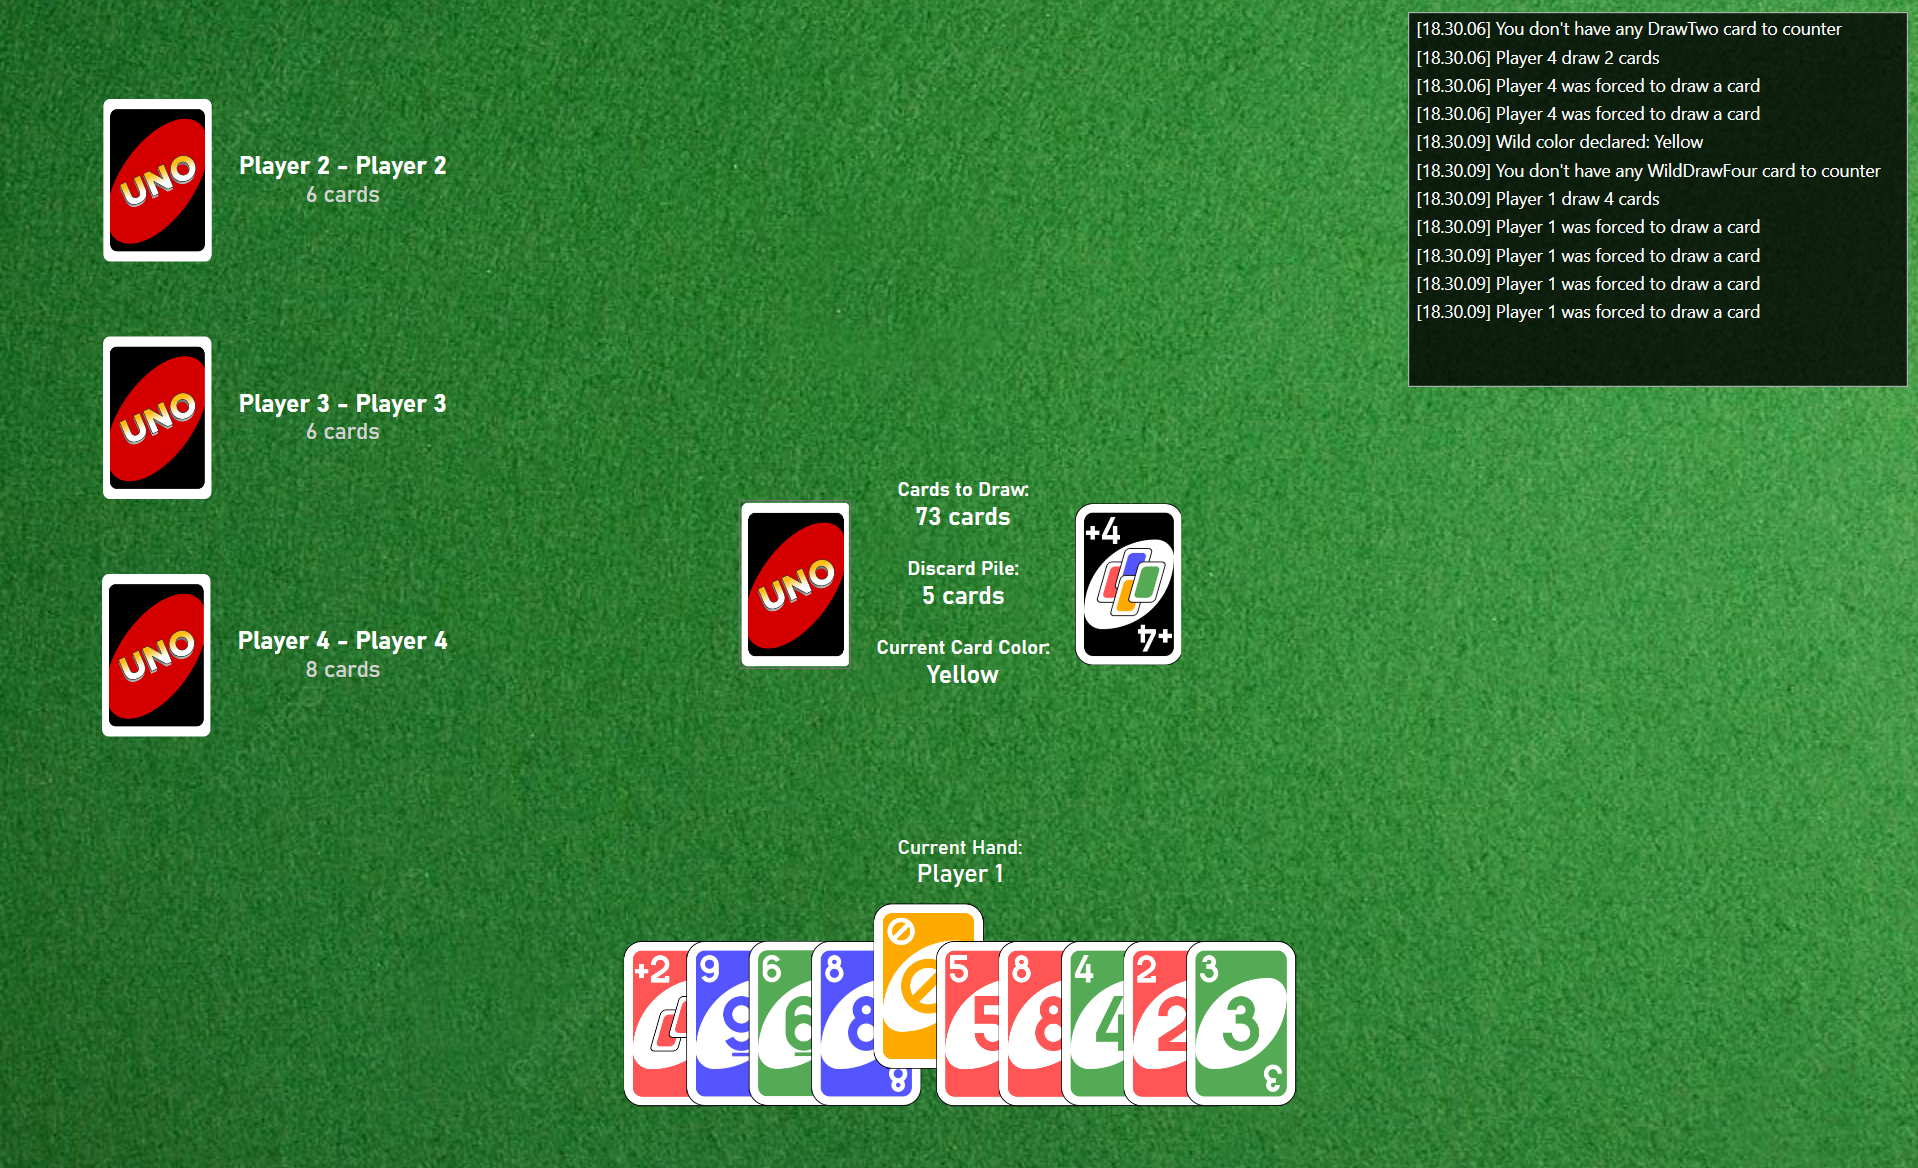
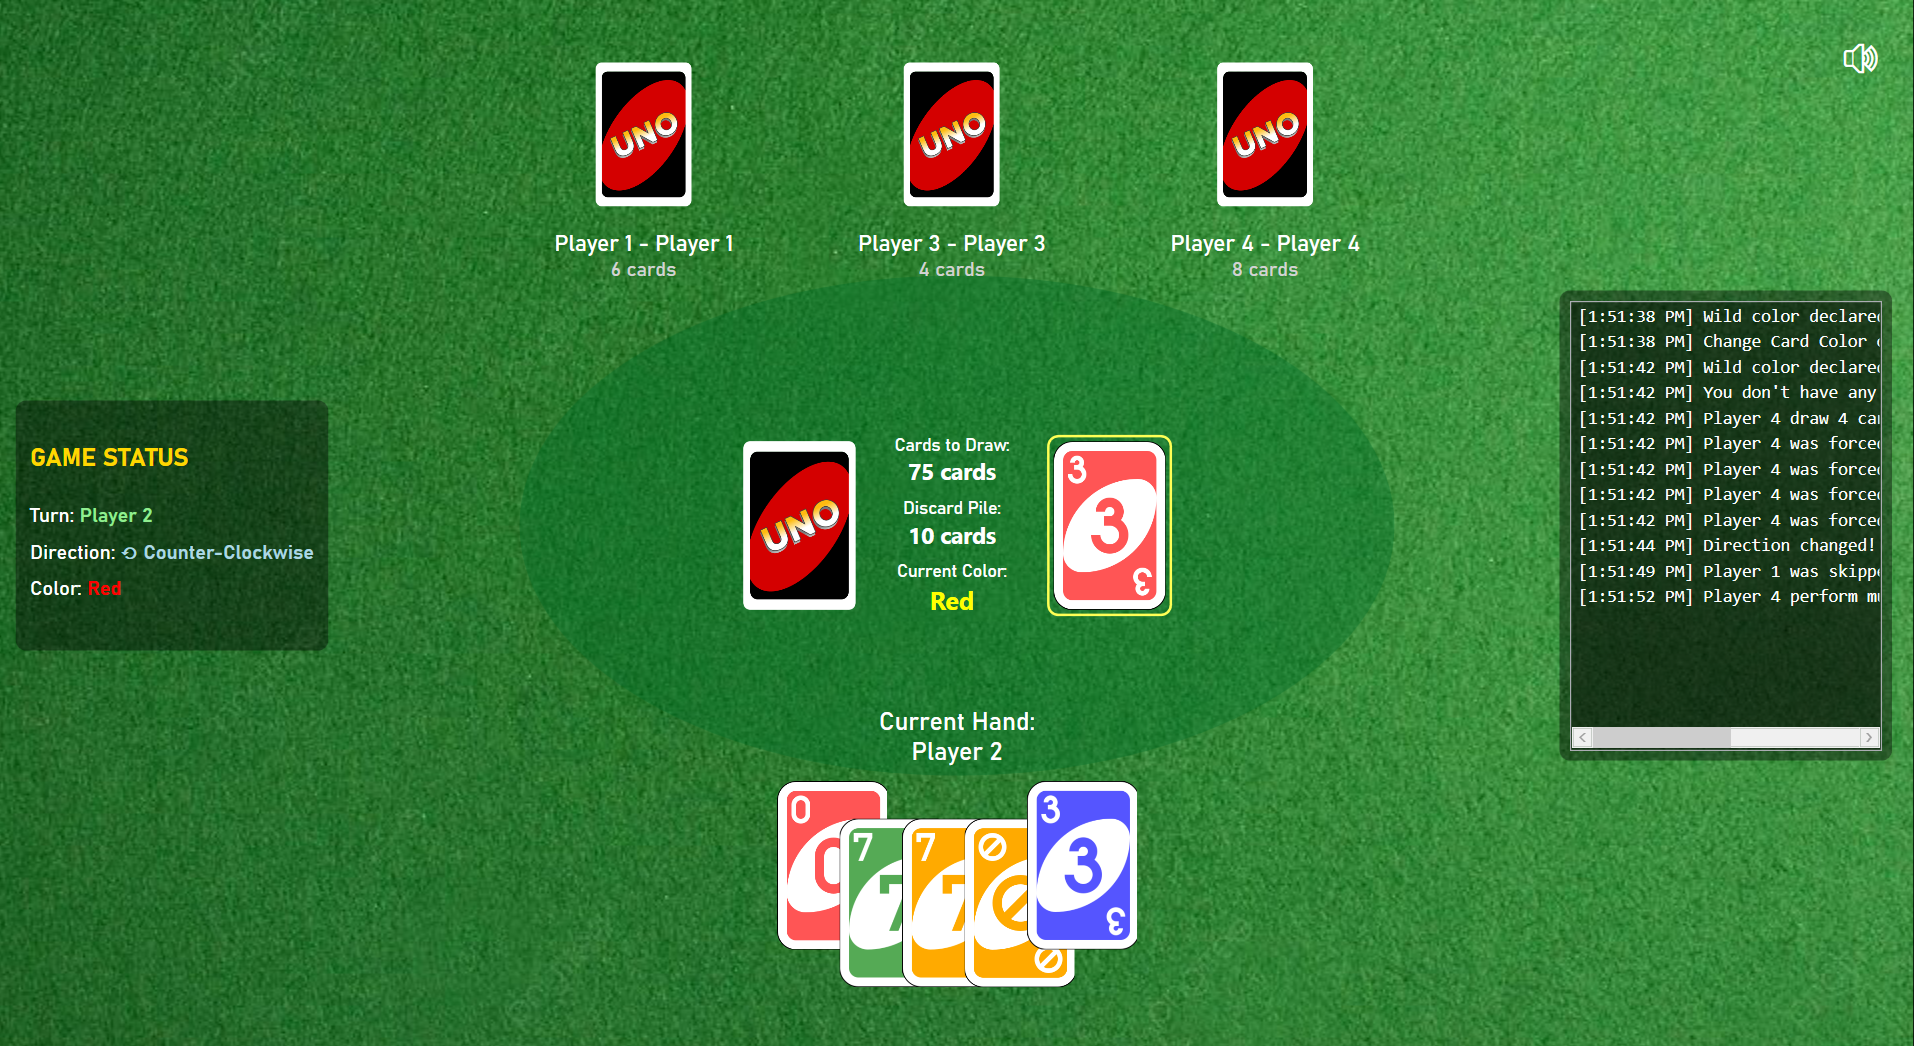
fix: correction text in game status and change new UI screenshot

diff --git a/Projects/UnoGame/UnoGame.WPFApp/Views/GameView.xaml b/Projects/UnoGame/UnoGame.WPFApp/Views/GameView.xaml
@@ -168,7 +168,7 @@
                     <TextBlock Text="{Binding IsReversed, Converter={StaticResource DirectionConverter}}" FontFamily="Bahnschrift" FontSize="16" Foreground="LightBlue" FontWeight="DemiBold" />
                 </StackPanel>
                 <StackPanel Orientation="Horizontal" Margin="0,5">
-                    <TextBlock Text="Direction: " Foreground="White" FontFamily="Bahnschrift" FontSize="16" />
+                    <TextBlock Text="Color: " Foreground="White" FontFamily="Bahnschrift" FontSize="16" />
                     <TextBlock Text="{Binding CurrentColor}" FontFamily="Bahnschrift" FontSize="16" Foreground="{Binding CurrentColor, Converter={StaticResource ColorToBrushConverter}}" FontWeight="DemiBold" />
                 </StackPanel>
             </StackPanel>
